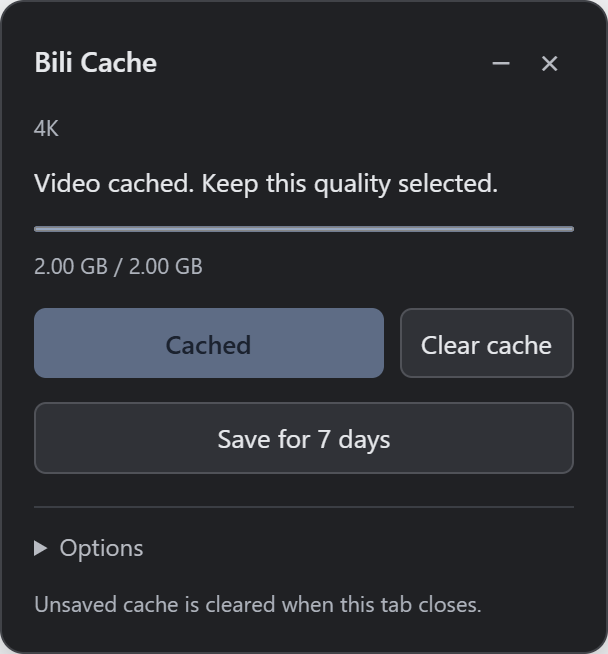
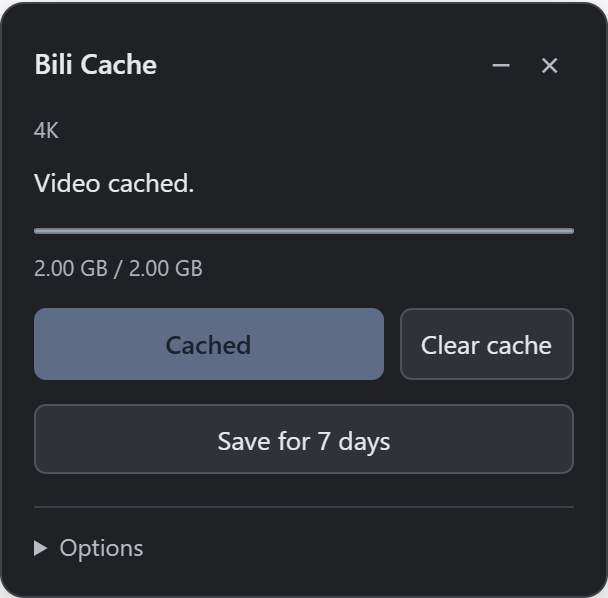
Simplify interface copy and usage documentation

diff --git a/extension/panel.js b/extension/panel.js
@@ -1,5 +1,5 @@
 (async () => {
-  if (window.__BILI_PAGE_CACHE_PANEL__?.version === '0.6.0') { window.__BILI_PAGE_CACHE_PANEL__.show(); return; }
+  if (window.__BILI_PAGE_CACHE_PANEL__?.version === '0.6.1') { window.__BILI_PAGE_CACHE_PANEL__.show(); return; }
   if (window.__BILI_PAGE_CACHE_PANEL__ || document.querySelector('#bili-page-cache-panel')) {
     await new Promise(resolve => {
       const done = event => {
@@ -29,7 +29,7 @@
         #fold,#close{background:none;border:0;color:#b8bbc2;padding:0 6px;font-size:18px}p{margin:8px 0 12px;overflow-wrap:anywhere}small{display:block;color:#aeb3bc;font-size:11px}
         progress{width:100%;height:5px;accent-color:#a8c7fa;display:block;margin:12px 0 8px}nav{display:flex;gap:8px;margin-top:12px}#start{background:#a8c7fa;color:#15243c;border-color:#a8c7fa;flex:1;font-weight:600}#start:hover:not(:disabled){background:#c3d7fb}#pin{flex:1}
         button:disabled{opacity:.45;cursor:default}[hidden]{display:none!important}#label{color:#aeb3bc}#stats{font-variant-numeric:tabular-nums}#saved-status{margin-top:8px;overflow-wrap:anywhere}#saved-status:empty{display:none}
-        details{margin-top:16px;border-top:1px solid #3b3e44;padding-top:10px}summary{cursor:pointer;color:#b8bbc2;font-size:12px}label{display:flex;align-items:center;gap:7px;margin-top:10px;color:#c3c7cf;font-size:12px}select{margin-left:auto;padding:3px 6px;background:#303237;color:#e6e8eb;border:1px solid #505258;border-radius:4px}input{margin:0;accent-color:#a8c7fa}#source-status,#partial-status{margin-top:4px}.note{margin-top:12px}
+        details{margin-top:16px;border-top:1px solid #3b3e44;padding-top:10px}summary{cursor:pointer;color:#b8bbc2;font-size:12px}label{display:flex;align-items:center;gap:7px;margin-top:10px;color:#c3c7cf;font-size:12px}select{margin-left:auto;padding:3px 6px;background:#303237;color:#e6e8eb;border:1px solid #505258;border-radius:4px}input{margin:0;accent-color:#a8c7fa}#source-status,#partial-status{margin-top:4px}
       </style>
       <section aria-label="Bili Cache"><header><strong>Bili Cache</strong><div><button id="fold" aria-label="Collapse panel" aria-expanded="true">−</button><button id="close" aria-label="Close cache" title="Close and clear temporary cache">×</button></div></header>
       <div id="body"><small id="label">Current quality</small><p id="message" role="status">Reading playback details...</p>
@@ -40,7 +40,7 @@
       <label>Connections<select id="concurrency" aria-label="Download connections"><option value="1">1</option><option value="4" selected>4 (default)</option><option value="8">8</option></select></label>
       <label><input id="auto-source" type="checkbox" checked> Choose the fastest server</label><small id="source-status"></small>
       <label><input id="use-partial" type="checkbox" checked> Play downloaded parts</label><small id="partial-status"></small>
-      </details><small class="note">Unsaved cache is cleared when this tab closes.</small></div></section>`;
+      </details></div></section>`;
     document.documentElement.append(host);
     root.querySelector('#start').onclick = () => command('start', { concurrency: Number(root.querySelector('#concurrency').value), autoSource: root.querySelector('#auto-source').checked, usePartial: root.querySelector('#use-partial').checked });
     root.querySelector('#clear').onclick = () => command('clear');
@@ -70,7 +70,7 @@
     if (s.phase === 'off') { destroy(); return; }
     const english = value => typeof value === 'string' && !/\p{Script=Han}/u.test(value);
     // Keep a completed cache running when upgrading from an older interface.
-    const fallback = s.phase === 'ready' ? (s.preview ? 'Preview cached. The full video is not cached.' : 'Video cached. Keep this quality selected.') : s.phase === 'loading' ? 'Downloading video and audio...' : s.phase === 'mismatch' ? 'Switch back to the cached quality and audio track, or cache the new selection.' : s.phase === 'error' ? 'Cache failed. Close the panel and enable it again to retry.' : 'Choose a fixed video quality, then click Cache video.';
+    const fallback = s.phase === 'ready' ? (s.preview ? 'Preview cached.' : 'Video cached.') : s.phase === 'loading' ? 'Downloading video and audio...' : s.phase === 'mismatch' ? 'Switch back to the cached quality and audio track, or cache the new selection.' : s.phase === 'error' ? 'Cache failed. Close the panel and enable it again to retry.' : 'Choose a fixed video quality, then click Cache video.';
     root.querySelector('#message').textContent = english(s.message) ? s.message : fallback;
     const label = english(s.label) && s.label ? s.label : 'Current quality';
     root.querySelector('#label').textContent = `${label}${s.preview ? ' · Preview' : ''}`;
@@ -82,7 +82,7 @@
     if (s.phase === 'loading' && typeof s.usePartial === 'boolean') root.querySelector('#use-partial').checked = s.usePartial;
     root.querySelector('#partial-status').textContent = s.phase !== 'loading' ? '' : s.progressive ? `${bytes(s.cachedBytes || 0)} ready. Uncached positions may buffer.` : 'Playback will use the cache when complete.';
     if (s.phase === 'loading' && typeof s.autoSource === 'boolean') root.querySelector('#auto-source').checked = s.autoSource;
-    root.querySelector('#source-status').textContent = !s.autoSource || !s.source ? '' : s.source.phase === 'testing' ? 'Checking server speeds...' : s.source.phase === 'selected' ? 'Using the fastest server from this check.' : s.source.phase === 'single' ? 'One server available.' : 'Speed check failed. Using the original server.';
+    root.querySelector('#source-status').textContent = !s.autoSource || !s.source ? '' : s.source.phase === 'testing' ? 'Checking server speeds...' : s.source.phase === 'selected' ? 'Server selected.' : s.source.phase === 'single' ? 'One server available.' : 'Speed check failed. Using the original server.';
     if (s.phase === 'loading' && s.concurrency) root.querySelector('#concurrency').value = String(s.concurrency);
     const progress = root.querySelector('#progress');
     if (s.phase === 'loading' && !s.total) progress.removeAttribute('value');
@@ -109,7 +109,7 @@
     try { chrome.runtime.onMessage.removeListener(onRuntime); } catch {}
     delete window.__BILI_PAGE_CACHE_PANEL__;
   }
-  window.__BILI_PAGE_CACHE_PANEL__ = { version: '0.6.0', show() {
+  window.__BILI_PAGE_CACHE_PANEL__ = { version: '0.6.1', show() {
     mount();
     if (root) { root.querySelector('#body').hidden = false; root.querySelector('#fold').textContent = '−'; root.querySelector('#fold').setAttribute('aria-expanded', 'true'); root.querySelector('#fold').setAttribute('aria-label', 'Collapse panel'); }
     command('status');

diff --git a/extension/popup.html b/extension/popup.html
@@ -4,9 +4,9 @@
 <meta name="viewport" content="width=device-width, initial-scale=1">
 <title>Bili Cache</title>
 <style>
-  *{box-sizing:border-box}body{width:296px;margin:0;padding:20px;font:13px/1.5 system-ui,sans-serif;color:#202124;background:#fff}header{display:flex;align-items:center;justify-content:space-between}h1{font-size:16px;margin:0;font-weight:600}small{color:#6b7280;font-size:11px}p{color:#5f6368;margin:10px 0 14px;overflow-wrap:anywhere}button{width:100%;padding:9px 12px;border:1px solid #d9dce1;border-radius:6px;background:#fff;color:#30343b;cursor:pointer;font:inherit}button:hover:not(:disabled){background:#f3f4f6}button:focus-visible{outline:2px solid #1a73e8;outline-offset:2px}#show{background:#1a73e8;border-color:#1a73e8;color:#fff;font-weight:500}#show:hover:not(:disabled){background:#1765cc}button:disabled{opacity:.45;cursor:default}section{border-top:1px solid #e5e7eb;margin-top:20px;padding-top:16px}h2{font-size:12px;font-weight:600;margin:0}#status:empty{display:none}.note{font-size:11px;margin-bottom:0}
+  *{box-sizing:border-box}body{width:296px;margin:0;padding:20px;font:13px/1.5 system-ui,sans-serif;color:#202124;background:#fff}header{display:flex;align-items:center;justify-content:space-between}h1{font-size:16px;margin:0;font-weight:600}small{color:#6b7280;font-size:11px}p{color:#5f6368;margin:10px 0 14px;overflow-wrap:anywhere}button{width:100%;padding:9px 12px;border:1px solid #d9dce1;border-radius:6px;background:#fff;color:#30343b;cursor:pointer;font:inherit}button:hover:not(:disabled){background:#f3f4f6}button:focus-visible{outline:2px solid #1a73e8;outline-offset:2px}#show{background:#1a73e8;border-color:#1a73e8;color:#fff;font-weight:500}#show:hover:not(:disabled){background:#1765cc}button:disabled{opacity:.45;cursor:default}section{border-top:1px solid #e5e7eb;margin-top:20px;padding-top:16px}h2{font-size:12px;font-weight:600;margin:0}#status:empty{display:none}
 </style>
-<header><h1>Bili Cache</h1><small>0.6.0</small></header>
+<header><h1>Bili Cache</h1><small>0.6.1</small></header>
 <p>Cache a Bilibili video at its current quality.</p>
 <button id="show">Enable on this tab</button>
 <p id="status" role="status"></p>
@@ -14,7 +14,6 @@
   <h2>Saved videos</h2>
   <p id="storage-status" role="status">Checking storage...</p>
   <button id="clear-all" disabled>Delete all saved videos</button>
-  <p class="note">Saved copies expire after 7 days. Cleanup runs every 30 minutes and when the browser starts.</p>
 </section>
 <script src="cache-db.js"></script><script src="storage-manager.js"></script><script src="popup.js"></script>
 </html>

diff --git a/extension/page.js b/extension/page.js
@@ -251,7 +251,7 @@
       targetKeys = new Set(tracks.map(t => core.key(t.url)));
       scope = identity();
       const progress = tracks.map(() => ({ loaded: 0, total: 0 }));
-      state = { ...state, phase: 'loading', label, preview, concurrency, autoSource, usePartial, progressive, message: preview ? 'Caching the preview. This is not the full video.' : progressive ? 'Caching. Downloaded parts are ready to play.' : 'Caching video and audio. Playback will use the cache when complete.' };
+      state = { ...state, phase: 'loading', label, preview, concurrency, autoSource, usePartial, progressive, message: preview ? 'Caching preview...' : 'Downloading video and audio...' };
       emit(true);
       const blobs = saved ? keys.map(key => saved.blobs[saved.keys.indexOf(key)]) : await Promise.all(tracks.map((track, index) => core.download(track, signal, (loaded, total) => {
         if (run !== generation) return;
@@ -348,7 +348,7 @@
       saveMessage = 'Saved for 7 days.';
     } catch (error) {
       if (run !== generation || stopped) return;
-      saveMessage = error.name === 'QuotaExceededError' ? 'Not enough storage. This tab still has its temporary cache.' : 'Could not save. This tab still has its temporary cache.';
+      saveMessage = error.name === 'QuotaExceededError' ? 'Not enough storage to save this video.' : 'Could not save. Try again.';
     } finally {
       if (run === generation && !stopped) { saving = false; saveController = null; emit(true); }
     }
@@ -362,7 +362,7 @@
       await store.remove(pinnedKeys, AbortSignal.any([lifetime.signal, saveController.signal]));
       if (run !== generation || stopped) return;
       pinnedKeys = []; pinnedUntil = 0;
-      saveMessage = 'Saved copy deleted. This tab still has its cache.';
+      saveMessage = 'Saved copy deleted.';
     } catch {
       if (run === generation && !stopped) saveMessage = 'Could not delete the saved copy. Try again.';
     } finally {
@@ -376,7 +376,7 @@
     state.phase = mismatch ? 'mismatch' : 'ready';
     state.message = mismatch
       ? `${state.label} is cached. Switch back to that quality and audio track, or cache the new selection.`
-      : state.preview ? 'Preview cached. The full video is not cached.' : 'Video cached. Keep this quality selected.';
+      : state.preview ? 'Preview cached.' : 'Video cached.';
   }
   function onCommand(event) {
     if (event.source !== window || event.origin !== location.origin || event.data?.source !== 'bili-page-cache:command') return;

diff --git a/extension/storage.js b/extension/storage.js
@@ -105,10 +105,10 @@
         } else {
           await store.remove(savedKeys, signal);
           savedKeys = []; pinState.pinnedUntil = 0;
-          pinState.saveMessage = 'Saved copy deleted. This tab still has its cache.';
+          pinState.saveMessage = 'Saved copy deleted.';
         }
       } catch (error) {
-        pinState.saveMessage = error.name === 'QuotaExceededError' ? 'Not enough storage. The video was not saved.' : error.name === 'AbortError' ? 'Save canceled.' : `Could not save: ${error.message}`;
+        pinState.saveMessage = error.name === 'QuotaExceededError' ? 'Not enough storage to save this video.' : error.name === 'AbortError' ? 'Save canceled.' : `Could not save: ${error.message}`;
       } finally { pinState.saving = false; operation = null; if (!disposed) emit(); }
     }
     function dispose() {

diff --git a/extension/storage-manager.js b/extension/storage-manager.js
@@ -15,7 +15,7 @@
       await refresh();
       const stats = await db.stats();
       if (stats.count) throw new Error('Another tab is saving a video. Wait for it to finish, then retry.');
-      status.textContent = 'All saved videos deleted. 0 bytes remaining.';
+      status.textContent = '0 saved videos · 0 bytes';
     } catch (error) { status.textContent = `Could not delete saved videos. ${error.message}`; clear.disabled = false; }
   };
   refresh().catch(error => { status.textContent = `Could not check storage. ${error.message}`; });

diff --git a/README.md b/README.md
@@ -1,88 +1,43 @@
 # Bili Cache
 
-An Edge and Chrome extension that caches the video and audio selected in the Bilibili player. Open it from the toolbar when you need it. The player, timeline, and comments stay on the page.
+Cache Bilibili videos in Edge or Chrome. Play downloaded parts as they arrive, or save a complete video for 7 days.
 
-[Download the latest release](https://github.com/QingrongY/bili-page-cache/releases/latest)
+[Download](https://github.com/QingrongY/bili-page-cache/releases/latest)
 
-<img src="docs/panel.png" width="304" alt="Bili Cache showing a completed video cache">
-
-Example panel with sample download size.
+<img src="docs/panel.png" width="304" alt="Bili Cache panel">
 
 ## Install
 
-1. Download `BiliCache-0.6.0.zip` from Releases and extract it to a folder you will keep.
+1. Download the release ZIP and extract it.
 2. Open `edge://extensions` or `chrome://extensions` and turn on **Developer mode**.
-3. Click **Load unpacked** and select the extracted **extension** folder.
-4. Open a Bilibili video, click the extension icon, and choose **Enable on this tab**.
+3. Click **Load unpacked** and select the **extension** folder. Keep this folder in place while using the extension.
 
-This is a GitHub release. It is not listed in the Edge or Chrome extension store. No local server or Node.js installation is needed to use it.
+## Use
 
-## Cache a video
+1. Open a Bilibili video and select a fixed quality, such as 4K.
+2. Play for a few seconds, then open Bili Cache from the toolbar and click **Enable on this tab**.
+3. Click **Cache video**. You can pause playback while it downloads.
 
-Choose a fixed quality, such as 4K, in the Bilibili player. Play for a few seconds so the player selects its video and audio tracks. You can then pause it and click **Cache video**.
+The panel shows download size, speed, and time remaining. Downloaded parts are available during playback; seeking ahead of the cache uses the network. Direct MP4 playback switches to the cache when the download finishes.
 
-Keep that quality and audio track selected. Changing either may select a different file that is not cached. The panel reports progress, download speed, and estimated time remaining.
+**Options** includes the number of download connections, automatic server selection, and playback from downloaded parts. The default is four video connections and one audio connection.
 
-| Control | What it does |
-| --- | --- |
-| Cache video | Downloads the selected video and audio into a temporary cache. |
-| Cancel | Stops the download and releases its cached parts. |
-| Clear cache | Releases this tab's temporary cache. Saved copies remain. |
-| Save for 7 days | Writes a complete cache to extension storage. Keep the tab open until saving finishes. |
-| Renew for 7 days | Replaces the saved copy and starts a new seven-day period. |
-| Delete saved | Deletes the saved copy. This tab can keep using its temporary cache. |
-| Close (×) | Stops caching, releases the temporary cache, and removes the panel. |
+## Save and delete
 
-Closing, refreshing, or leaving the video page disables caching on that page. Open the extension again to use it on another page.
+- **Save for 7 days** keeps a completed video after the tab closes. Wait for the expiry date to appear before closing the tab.
+- To reuse it, open the same video, select the same quality and audio track, and enable Bili Cache.
+- **Renew for 7 days** resets the expiry date. **Delete saved** removes the saved copy.
+- **Clear cache** clears the current tab's temporary cache. Unsaved data is also cleared when the tab closes.
+- **Delete all saved videos**, in the toolbar popup, clears all saved copies and shows the remaining storage.
 
-### Playback during download
+Expired copies are removed every 30 minutes while the browser runs, and on the next browser start.
 
-**Play downloaded parts** is on by default. A playback request is served locally only when every requested byte is already cached. Requests with missing bytes use the network. Seeking to an uncached position can still buffer, and playback shares bandwidth with the download.
+## Supported playback
 
-This works with DASH requests made through the page's fetch or XMLHttpRequest functions. A video playing directly from an MP4 URL switches to the cache only after the whole file is downloaded.
+MP4 and DASH, up to 12 GiB per track. Live streams and multi-part FLV are not supported. Playback uses the original Bilibili player and its current login session. Downloads restart after a page refresh.
 
-### Download options
+## Update
 
-- **Connections:** 4 video requests by default; choose 1 or 8 under **Options**. Audio uses one request. More connections do not always improve speed.
-- **Choose the fastest server:** checks up to four server addresses supplied by the player for the same file, then uses the fastest measured address. Each check reads at most 256 KiB per server, with two checks at a time and a three-second timeout.
-- Slow downloads can trigger another server check after a cooldown. Completed parts are kept. The extension cannot change your accelerator or VPN route, and a short speed check cannot guarantee the fastest connection throughout a download.
+Extract the new release into your installation folder and click **Reload** on the extensions page. Close and reopen the cache panel to use the new version on an existing tab; this clears that tab's temporary cache.
 
-## Saved videos and cleanup
-
-Saved copies use the extension's IndexedDB storage. They are not exported to Downloads or stored in Bilibili's site database. The expiry time is shown in the panel. To reuse a copy, open the same video, select the same quality and audio, and enable the extension. If playback details are not ready yet, play briefly and click **Cache video** to check again.
-
-A cleanup alarm is registered before saving. Expired copies cannot be restored. The extension checks for expired data every 30 minutes while the browser is running, and also when the browser starts or the extension is updated. Cleanup does not require the original video tab to remain open.
-
-The toolbar popup shows the number and size of all saved copies. **Delete all saved videos** removes them and checks that the remaining count and stored media size are zero. Each video's data and index are saved or deleted in one transaction; a failed write rolls back both. Renewing a copy replaces its record.
-
-The browser cannot run cleanup while it is closed or the extension is disabled. It handles physical disk reclamation itself, so a logical size of zero does not mean its database files shrink immediately. This extension does not promise secure disk erasure.
-
-## Limits
-
-- The original player must provide access to the selected quality. Cached bytes do not replace login, playback metadata, or any other requirements of the original player. This is not a guarantee of fully offline playback.
-- Supports MP4 and DASH. Live streams, multi-part FLV, and requests made inside workers are not supported.
-- Maximum size is 12 GiB per track. Saving can fail if disk space or the browser's storage quota is exhausted; the current temporary cache remains available.
-- A completed cache avoids network waits for supported requests. Decoding, keyframes, and hardware still affect seek time.
-- Unfinished downloads cannot resume after a refresh. Browser storage eviction can remove saved copies before expiry.
-- Bilibili player changes may break compatibility. Local tests do not establish compatibility with every title or 4K stream.
-
-## Update or remove
-
-Extract a new release into the same installation folder, then click **Reload** on the browser's extensions page. An already open page may keep its earlier cache code until you close its panel and enable it again. Do that only when you are ready to discard its temporary cache.
-
-To remove saved video data, use **Delete all saved videos** first. Close cached video tabs to release their temporary data. You can then remove the extension through the browser's extensions page.
-
-Keep the **extension** folder while using an unpacked installation. Deleting that folder breaks the installed extension. See [local cleanup](CLEANUP.md) for development files you can remove yourself.
-
-## Development
-
-Requires Node.js, Microsoft Edge, and FFmpeg on PATH. Tests run in separate, muted browser profiles and use generated media.
-
-```powershell
-npm ci
-ffmpeg -hide_banner -loglevel error -f lavfi -i testsrc2=size=640x360:rate=24 -f lavfi -i sine=frequency=440:sample_rate=44100 -t 12 -c:v libx264 -preset ultrafast -g 24 -pix_fmt yuv420p -c:a aac -movflags +faststart -y tests/fixture.mp4
-npm test
-powershell -ExecutionPolicy Bypass -File scripts/package.ps1
-```
-
-[Testing](TESTING.md) · [Privacy](PRIVACY.md) · [Changes](CHANGELOG.md) · [ISC license](LICENSE)
+[Local cleanup](CLEANUP.md) · [Development and tests](TESTING.md) · [Privacy](PRIVACY.md) · [Changes](CHANGELOG.md) · [License](LICENSE)

diff --git a/PRIVACY.md b/PRIVACY.md
@@ -1,25 +1,15 @@
 # Privacy
 
-Bili Cache has no analytics, advertising, or application server. It does not send cached videos or browsing history to the developer.
+Bili Cache stores video data locally. It has no analytics or developer server.
 
-## Page access
+When enabled on a tab, it reads the selected video and audio URLs from Bilibili and downloads those files from the player's media servers. Playback-information requests use the browser's existing Bilibili session.
 
-The extension accesses a tab after you click its toolbar action and enable it. It reads playback information and video URLs from the Bilibili player, then downloads the selected video and audio from the player's media servers. If necessary, it repeats the playback-information request already used by that page, using the browser's existing Bilibili session.
-
-Normal Bilibili and media-server requests still expose the information those requests usually carry, such as your IP address and applicable session credentials. The extension does not export your login session.
-
-## Local data
-
-Temporary media data belongs to the enabled page and is released when that page closes or caching stops. The browser may store Blob data in memory or temporary disk files.
-
-Clicking **Save for 7 days** writes the media data, media-path keys, quality label, and expiry time to the extension's IndexedDB database. Saved copies can be removed from the page panel or together from the toolbar popup. Expired records are removed by the cleanup worker. Browser shutdown, extension disablement, scheduling, and physical disk reclamation can delay deletion.
+Temporary data is released when the tab closes. Saved copies include media data, media-path keys, quality, and an expiry date in the extension's IndexedDB storage. Delete them from the panel or toolbar popup. Expired copies are checked every 30 minutes and at browser startup. Edge or Chrome manages physical disk reclamation.
 
 ## Permissions
 
-| Permission | Purpose |
+| Permission | Used for |
 | --- | --- |
 | activeTab | Access the tab where you open the extension. |
-| scripting | Add the cache controls and request handlers after you enable them. |
-| alarms | Wake the cleanup worker to remove expired saved copies. |
-
-There are no always-on content scripts or broad host permissions. A storage frame can be opened on Bilibili pages to exchange cached Blob data with the extension's database. The cleanup worker does not open video pages or download media.
+| scripting | Add the cache panel and playback handlers after you enable it. |
+| alarms | Remove expired saved copies in the background. |

diff --git a/TESTING.md b/TESTING.md
@@ -1,6 +1,6 @@
 # Testing
 
-The browser suite runs with Microsoft Edge, Playwright, and generated video and audio. It uses isolated browser profiles and muted playback. It does not use a personal browser session or a real Bilibili media file.
+The browser suite runs with Microsoft Edge, Playwright, and generated video and audio. It uses isolated browser profiles and muted playback.
 
 ## Coverage
 
@@ -13,10 +13,17 @@ The browser suite runs with Microsoft Edge, Playwright, and generated video and 
 - Explicit seven-day saving, restoring after a reload, deleting a saved copy, expiry, and transaction rollback after an index write fails.
 - Blob transfer to extension-owned storage, replacing a saved copy without duplication, expiry cleanup after the video tab closes and the worker stops, and deleting all saved copies from the popup.
 
-Run `npm test` after generating the fixture as described in README. The suite currently contains 19 tests.
+Run `npm test` after generating the fixture below. The suite currently contains 19 tests.
 
 Release 0.6.0: all 19 tests passed on September 28, 2026. The English panel was also rendered and checked at its default size with Options collapsed; no horizontal overflow was found.
 
-## What these tests do not establish
+## Run locally
 
-They do not verify every Bilibili player variant, 4K title, account restriction, or accelerator route. They do not guarantee fully offline access to a title or immediate reclamation of browser database files. Large saved copies are subject to available storage and browser quotas.
+Requires Node.js, Microsoft Edge, and FFmpeg on PATH.
+
+```powershell
+npm ci
+ffmpeg -hide_banner -loglevel error -f lavfi -i testsrc2=size=640x360:rate=24 -f lavfi -i sine=frequency=440:sample_rate=44100 -t 12 -c:v libx264 -preset ultrafast -g 24 -pix_fmt yuv420p -c:a aac -movflags +faststart -y tests/fixture.mp4
+npm test
+powershell -ExecutionPolicy Bypass -File scripts/package.ps1
+```

diff --git a/CLEANUP.md b/CLEANUP.md
@@ -1,7 +1,5 @@
 # Local cleanup
 
-Publishing this repository does not remove local files or browser data.
-
 ## If you still use the extension
 
 Keep the **extension** folder at the path shown on the browser's extensions page. An unpacked extension loads its code from that folder.
@@ -12,7 +10,7 @@ After closing any development test browsers, these files can be removed manually
 | --- | --- | --- |
 | node_modules/ | Development dependencies | Run `npm ci`. |
 | .test-profile/ | Local development browser profile, if present | Tests can create a new profile. |
-| tests/fixture.mp4 | Generated test video | Use the FFmpeg command in README. |
+| tests/fixture.mp4 | Generated test video | Use the FFmpeg command in TESTING.md. |
 | test-results/ | Local test output, if present | Run the relevant tests again. |
 | dist/ | Release ZIP files | Download a release or run the packaging script. |
 | browser-console.cjs | Local browser debugging helper, if present | Not needed to use the extension. |
@@ -25,8 +23,6 @@ The README, source files, and tests can be downloaded from GitHub again. Deletin
 1. Open the extension popup and click **Delete all saved videos**.
 2. Check that it reports zero bytes remaining.
 3. Close any cached video tabs, or use **Clear cache** in each panel.
-
-These steps release records and references owned by the extension. Edge or Chrome controls when its physical storage files are reclaimed.
 
 ## Remove the extension entirely
 

diff --git a/CHANGELOG.md b/CHANGELOG.md
@@ -1,5 +1,10 @@
 # Changes
 
+## 0.6.1
+
+- Shorter status messages and fewer notes in the panel and popup.
+- Revised installation, usage, and cleanup instructions.
+
 ## 0.6.0
 
 First public release.
@@ -12,4 +17,3 @@ First public release.
 - Save a completed video for seven days, renew it, or delete it.
 - Remove expired copies from a cleanup worker and delete all saved copies from the toolbar popup.
 
-This release is distributed as an unpacked extension through GitHub.
